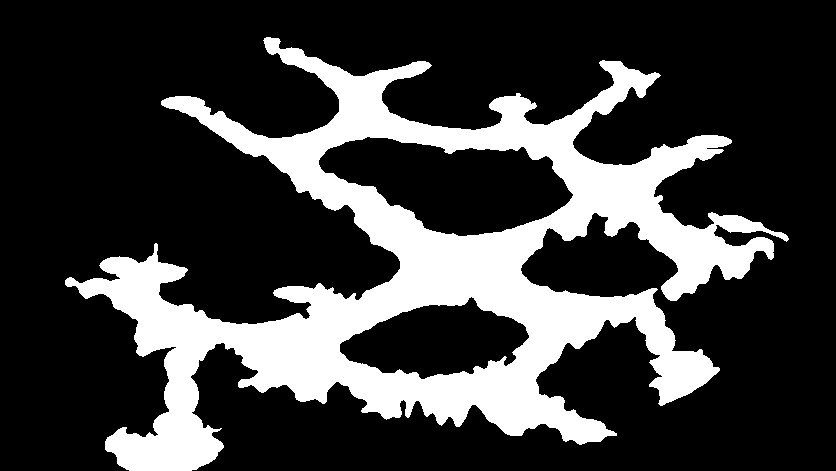
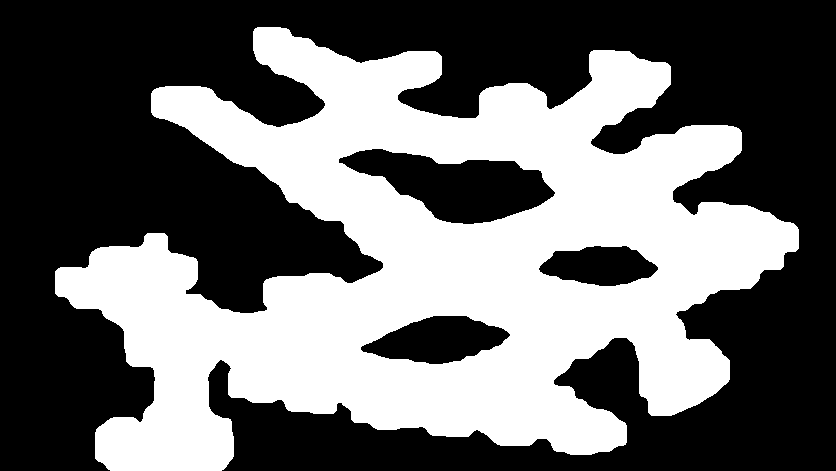
fix: andar solto no mapa (terra mais larga e desenho sem trancos)
A área andável é toda a terra pintada com uns 20 px de folga para cada
lado e a beira arredondada, para não engasgar nos dentes da máscara. O
desenho do personagem desliza entre os passos da física (60 por
segundo) em vez de andar aos trancos numa tela mais rápida.

Changed region(s): [[0.0622, 0.0594, 0.9641, 1.0]]

diff --git a/tools/blender/park_walk_mask.py b/tools/blender/park_walk_mask.py
@@ -73,6 +73,21 @@ keep = lab == main
 lab2, sizes2 = components(~keep)
 for k, n in enumerate(sizes2):
     if n < 600: keep[lab2 == k] = True
+# Folga de uns 20 px (do conjunto) para cada lado da terra, com a beira arredondada: andar solto, sem engasgar
+# nos dentes da cor (pedido do usuário em 05/10/2026).
+MARGIN = 10
+def box_half(mask, k):
+    pad = np.pad(mask.astype(np.float32), k)
+    c = np.cumsum(np.cumsum(pad,0),1)
+    c = np.pad(c, ((1,0),(1,0)))
+    s = c[2*k+1:, 2*k+1:] - c[:-2*k-1, 2*k+1:] - c[2*k+1:, :-2*k-1] + c[:-2*k-1, :-2*k-1]
+    return s[:H,:W] / (2*k+1)**2
+for step in range(MARGIN):
+    keep = box_half(keep, 1) > 0.05
+keep = box_half(keep, 3) > 0.5
+lab3, sizes3 = components(~keep)
+for k, n in enumerate(sizes3):
+    if n < 1500: keep[lab3 == k] = True
 np.save(outdir + "/walk_half.npy", keep)
 o = bpy.data.images.new("m", W, H)
 g = keep.astype(np.float32)

diff --git a/docs/REMAP_VISUAL.md b/docs/REMAP_VISUAL.md
@@ -61,7 +61,7 @@ Pedido de 05/10/2026 (docs/prompts/claude_integrar_mapa_4partes.md): o parque cr
 
 As quatro partes são uma malha só com quatro materiais, num plano de frente para a câmera atrás do chão; os cantos saem da mesma conta (pixel_to_world), então as partes vizinhas dividem os mesmos vértices (sem vão nem sobreposição), com filtro linear, sem repetição e sem compressão de VRAM.
 
-Onde se anda: máscara da terra pintada (levels/world/art/park_walk.png, feita por tools/blender/park_walk_mask.py: cor da terra, só o pedaço principal, furos pequenos tapados, entradas acrescentadas à mão e o pilar do portão tirado). Bater na beira leva ao ponto andável mais perto de onde se queria ir: o personagem escorrega pela beira em vez de travar (reclamação do usuário: o andar ficava travado nas paredes). Velocidade no mapa de 2,4 para 4,6 m/s (pedido do usuário: estava lento).
+Onde se anda: máscara da terra pintada (levels/world/art/park_walk.png, feita por tools/blender/park_walk_mask.py: cor da terra, só o pedaço principal, furos pequenos tapados, entradas acrescentadas à mão e o pilar do portão tirado), alargada uns 20 px para cada lado e com a beira arredondada (pedido do usuário: andar solto, sem engasgar). O desenho do personagem desliza entre os passos da física (60 por segundo), sem trancos na tela mais rápida. Bater na beira leva ao ponto andável mais perto de onde se queria ir: o personagem escorrega pela beira em vez de travar (reclamação do usuário: o andar ficava travado nas paredes). Velocidade no mapa de 2,4 para 4,6 m/s (pedido do usuário: estava lento).
 
 Portas nas entradas pintadas: tapetes do Domador, dos Malabaristas e do Mágico, escada do Camarim, escada da loja e plataforma da estação. Os personagens nascem no pátio logo depois do portão. Como antes, os personagens ficam sempre na frente do cenário (a pintura não tem profundidade).
 
